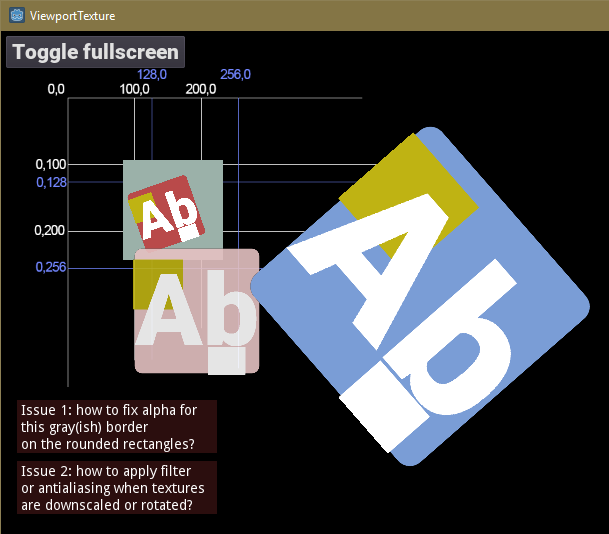
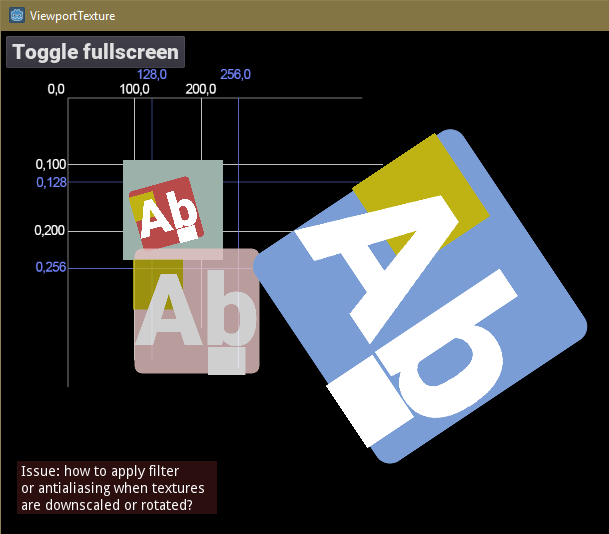
Fix grey alpha edge issue, thanks to https://github.com/Calinou

diff --git a/README.md b/README.md
@@ -1,8 +1,8 @@
 A study/reminder for using Viewport in Godot Engine 3.1.1 to generate a composite texture that can be used for proper transparency effects (fade in/out without).
 
-However there are two issues that should be solved:
+However there ~~are two issues~~ is one issue that should be solved:
 
-1. The imported texture (rounded rectangle) has a grayish blend on its borders where its alpha goes to 0, even though at Import the `Fix Alpha Border` was on.
+1. ~~The imported texture (rounded rectangle) has a grayish blend on its borders where its alpha goes to 0, even though at Import the `Fix Alpha Border` was on.~~ Fixed by using a proper `CanvasItemMaterial` as per [Calinou's suggestion](https://www.reddit.com/r/godot/comments/d848ch/full_code_for_using_viewport_to_generate/f187e6j/).
 2. Rotated and downscaled textures do not apply filtering at all, so the image looks pixelated.
 
 ![A screenshot](https://raw.githubusercontent.com/sszigeti/godot3.1.1-viewport-texture-study/master/screenshot.png)
